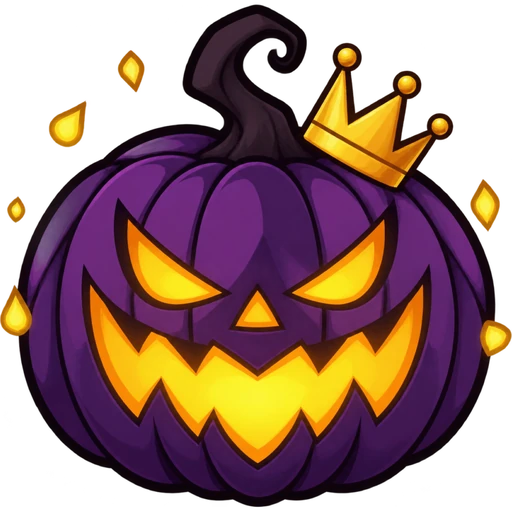
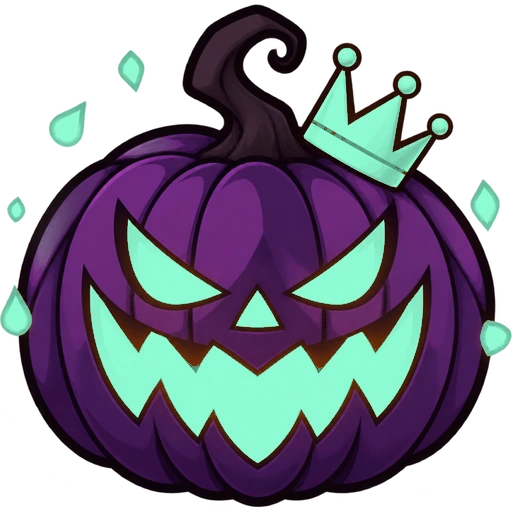
fix(map): 地图南瓜按素材页的分工重排，换回 midnight 与新版首领/支线
素材页 ai-workspace/.../shared-temp/pumpkin-picker 早把分工定好了，代码里一直
还是旧的那套映射，还少了 midnight 这张（squash 时被删过）。按素材页对齐：

  已完成  morning / midnight
  未完成  dusk / green-night
  首领    boss-night / boss（昼夜对调）
  支线    branch / branch-night（这两张也换成了素材页的新画）

没有五官的 unlit 剪影正式退役：未解锁和未到达共用「未完成」那张，地图上不会再
出现一颗没脸的南瓜。之前我按新画风补的那张随之撤掉。

diff --git a/frontend/src/assets/halloween/index.ts b/frontend/src/assets/halloween/index.ts
@@ -286,26 +286,33 @@ import bookBuiltinDay from './card/book-object-builtin-day.webp'
 import bookBuiltinNight from './card/book-object-builtin-night.webp'
 export const builtinBook = { day: bookBuiltinDay, night: bookBuiltinNight } as const
 
-/* The trail's stops are jack-o'-lanterns: lit for a stop you cleared, a
- * spirit-green one for the stop you are on, a dark unlit one for a stop out
- * of reach. */
-import pumpkinGreen from './char/pumpkin-green.webp'
-import pumpkinGreenNight from './char/pumpkin-green-night.webp'
-import pumpkinUnlit from './char/pumpkin-unlit.webp'
-import pumpkinUnlitNight from './char/pumpkin-unlit-night.webp'
+/* The trail's stops are jack-o'-lanterns: one for a stop you cleared, one for
+ * a stop still ahead (locked or not), a crowned one for the last stop and a
+ * vine-wrapped one for a side path. */
 import pumpkinMorning from './char/pumpkin-morning.webp'
+import pumpkinMidnight from './char/pumpkin-midnight.webp'
 import pumpkinDusk from './char/pumpkin-dusk.webp'
+import pumpkinGreenNight from './char/pumpkin-green-night.webp'
 import pumpkinBoss from './char/pumpkin-boss.webp'
 import pumpkinBossNight from './char/pumpkin-boss-night.webp'
 import pumpkinBranch from './char/pumpkin-branch.webp'
 import pumpkinBranchNight from './char/pumpkin-branch-night.webp'
+
+/**
+ * The map's five skins, as the asset picker hands them out
+ * (ai-workspace/.../shared-temp/pumpkin-picker):
+ *
+ *   已完成  morning / midnight · 未完成  dusk / green-night
+ *   首领    boss-night / boss （昼夜对调） · 支线  branch / branch-night
+ *
+ * `unlit` borrows the 未完成 art: the old faceless silhouette is retired, so
+ * a locked stop still wears a face.
+ */
 export const pumpkins = {
-  /** A cleared stop: bright by morning, a hot burn after dark. */
-  lit: { day: pumpkinMorning, night: pumpkinDusk },
-  green: { day: pumpkinGreen, night: pumpkinGreenNight },
-  unlit: { day: pumpkinUnlit, night: pumpkinUnlitNight },
-  /** The last stop wears a crown; a side path is a quiet one. */
-  boss: { day: pumpkinBoss, night: pumpkinBossNight },
+  lit: { day: pumpkinMorning, night: pumpkinMidnight },
+  green: { day: pumpkinDusk, night: pumpkinGreenNight },
+  unlit: { day: pumpkinDusk, night: pumpkinGreenNight },
+  boss: { day: pumpkinBossNight, night: pumpkinBoss },
   branch: { day: pumpkinBranch, night: pumpkinBranchNight },
 } as const
 

diff --git a/frontend/src/assets/halloween/README.md b/frontend/src/assets/halloween/README.md
@@ -109,11 +109,11 @@
 
 | 文件 | 用途 |
 |---|---|
-| `pumpkin-morning.webp` / `pumpkin-dusk.webp` | 关卡节点：已通关的白昼版与黄昏版 |
-| `pumpkin-green.webp` / `pumpkin-green-night.webp` | 当前所在节点。白天苔绿，夜间深紫 + 薄荷刻脸 |
-| `pumpkin-unlit.webp` / `pumpkin-unlit-night.webp` | 未解锁节点。无刻脸、无光 |
-| `pumpkin-boss.webp` / `pumpkin-boss-night.webp` | 最终关。白天金冠，夜间失光银冠 |
-| `pumpkin-branch.webp` / `pumpkin-branch-night.webp` | 分支关。白天藤蔓，夜间薄荷刻脸 |
+| `pumpkin-morning.webp` / `pumpkin-midnight.webp` | 已通关的节点：白天橙底笑脸，夜间同一张笑脸的夜色版 |
+| `pumpkin-dusk.webp` / `pumpkin-green-night.webp` | 还没到 / 正站着的节点：白天红橙笑脸，夜间深紫冷脸（未解锁也用它） |
+| `pumpkin-boss-night.webp` / `pumpkin-boss.webp` | 最终关，昼夜对调：白天浅冠紫底，夜间薄荷冠薄荷脸 |
+| `pumpkin-branch.webp` / `pumpkin-branch-night.webp` | 支线关：橄榄绿，昼夜各一版 |
+| `pumpkin-green.webp` · `pumpkin-unlit{.webp,-night.webp}` | **本版未使用**（灰绿凶脸 / 棕底凶脸 / 没有五官的剪影），保留备查 |
 | `candle-{cold,low,mid,high}-{day,night}.webp` | 周报蜡烛，四种燃烧状态各画一张：冷（无焰、灰蜡）、低、中、高（白天带金环）。柱身等宽，高低由画本身决定，不再靠 CSS 拉伸 |
 | `charge-{flame,moon,book,crown,skull,star,owl,hourglass,key}.webp` | 徽章中心的徽记（AI 绘制，非 emoji）。夜间为 `-night` 版 |
 | `card/book-object-{day,night}.webp` | 词书封面本体。白天绿皮卡 + 黄铜，夜间紫皮卡 + 薄荷扣 |
